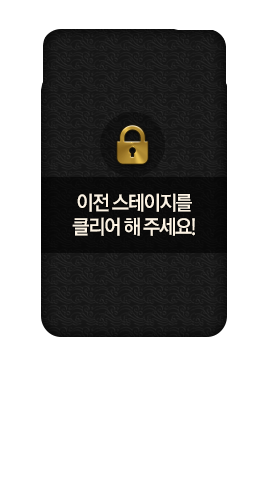
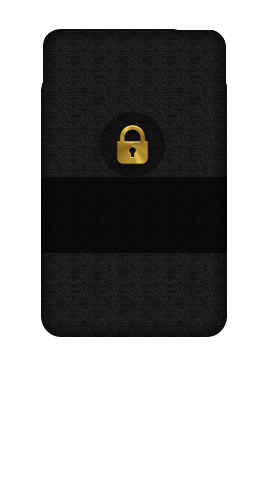
언어 버그 수정, 랭크에서 밑에 깔린 액자 움직임 버그 수정 등

Changed region(s): [[0.2667, 0.398, 0.7407, 0.4898]]

diff --git a/Classes/MainFlowScene.cpp b/Classes/MainFlowScene.cpp
@@ -778,6 +778,11 @@ CCTableViewCell* MainFlowScene::tableCellAtIndex(CCTableView *table, unsigned in
 			CCSprite* not_clear_img = CCSprite::create(CCString::createWithFormat("mainflow_puzzle_lock_base%d.png", before_close_count)->getCString());
 			not_clear_img->setPosition(close_back->getPosition());
 			cell_node->addChild(not_clear_img);
+			
+			KSLabelTTF* not_clear_label = KSLabelTTF::create(myLoc->getLocalForKey(kMyLocalKey_beforeNotClearPuzzle), mySGD->getFont().c_str(), 12);
+			not_clear_label->enableOuterStroke(ccBLACK, 1.f);
+			not_clear_label->setPosition(ccp(67.5f,138.5f));
+			not_clear_img->addChild(not_clear_label);
 		}
 		
 //		PuzzleListShadow* shadow_node = PuzzleListShadow::create(this, cell, ccpAdd(ccp((-480.f*screen_scale_x+480.f)/2.f, 160-table_size.height/2.f), ccp(table_size.width/2.f, table_size.height/2.f)), ccp(cellSizeForTable(table).width/2.f, cellSizeForTable(table).height/2.f), ccp(1.f,0), ccp(0.2f,0));
@@ -817,6 +822,11 @@ CCTableViewCell* MainFlowScene::tableCellAtIndex(CCTableView *table, unsigned in
 		CCSprite* not_clear_img = CCSprite::create("mainflow_puzzle_lock_base1.png");
 		not_clear_img->setPosition(CCPointZero);
 		cell_node->addChild(not_clear_img);
+		
+		KSLabelTTF* not_clear_label = KSLabelTTF::create(myLoc->getLocalForKey(kMyLocalKey_beforeNotClearPuzzle), mySGD->getFont().c_str(), 12);
+		not_clear_label->enableOuterStroke(ccBLACK, 1.f);
+		not_clear_label->setPosition(ccp(67.5f,138.5f));
+		not_clear_img->addChild(not_clear_label);
 		
 		CCDelayTime* t_delay1 = CCDelayTime::create(0.5f);
 		CCFadeTo* t_fade1 = CCFadeTo::create(0.2f, 0);

diff --git a/Classes/MyLocalization.cpp b/Classes/MyLocalization.cpp
@@ -144,11 +144,11 @@ void MyLocal::initLocal()
 	ko->setObject(CCString::create("이 아이템 사용"), kMyLocalKey_thisItemUse);
 	ko->setObject(CCString::create("타임"), kMyLocalKey_time);
 	ko->setObject(CCString::create("골드"), kMyLocalKey_gold);
-	ko->setObject(CCString::create("점수"), kMyLocalKey_time);
+	ko->setObject(CCString::create("점수"), kMyLocalKey_score);
 	ko->setObject(CCString::create("다음스테이지"), kMyLocalKey_nextStage);
 	ko->setObject(CCString::create("다시하기"), kMyLocalKey_regame);
 	ko->setObject(CCString::create("메인으로"), kMyLocalKey_toMain);
-//	ko->setObject(CCString::create(""), kMyLocalKey_);
+	ko->setObject(CCString::create("이전 스테이지를\n클리어 해주세요!"), kMyLocalKey_beforeNotClearPuzzle);
 //	ko->setObject(CCString::create(""), kMyLocalKey_);
 //	ko->setObject(CCString::create(""), kMyLocalKey_);
 //	ko->setObject(CCString::create(""), kMyLocalKey_);

diff --git a/Classes/RankNewPopup.cpp b/Classes/RankNewPopup.cpp
@@ -14,6 +14,7 @@
 #include "FormSetter.h"
 #include "LabelTTFMarquee.h"
 #include "MyLocalization.h"
+#include "TouchSuctionLayer.h"
 
 void RankNewPopup::setHideFinalAction(CCObject *t_final, SEL_CallFunc d_final)
 {
@@ -36,7 +37,9 @@ bool RankNewPopup::init()
 	
 	is_menu_enable = false;
 	
-	setTouchEnabled(true);
+	TouchSuctionLayer* suction = TouchSuctionLayer::create(-180);
+	addChild(suction);
+	suction->setTouchEnabled(true);
 	
 	CCSize screen_size = CCEGLView::sharedOpenGLView()->getFrameSize();
 	float screen_scale_x = screen_size.width/screen_size.height/1.5f;
@@ -149,6 +152,8 @@ bool RankNewPopup::init()
 	rank_table->setDelegate(this);
 	
 	main_inner_right->addChild(rank_table);
+	
+	rank_table->setTouchPriority(-184);
 	
 	
 	

diff --git a/Classes/MyLocalization.h b/Classes/MyLocalization.h
@@ -239,7 +239,8 @@ typedef enum MyLocalKey_ {
 	kMyLocalKey_score,
 	kMyLocalKey_nextStage,
 	kMyLocalKey_regame,
-	kMyLocalKey_toMain
+	kMyLocalKey_toMain,
+	kMyLocalKey_beforeNotClearPuzzle
 }MyLocalKey;
 
 #define myLoc MyLocal::sharedInstance()
